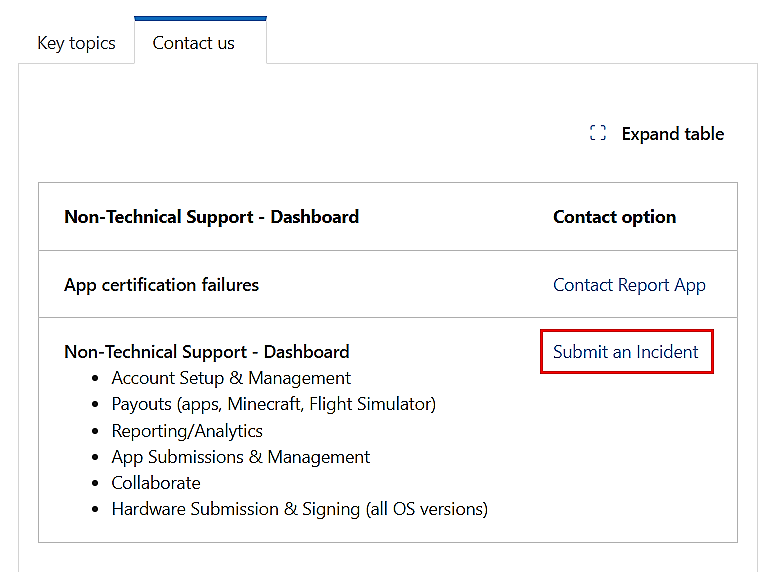
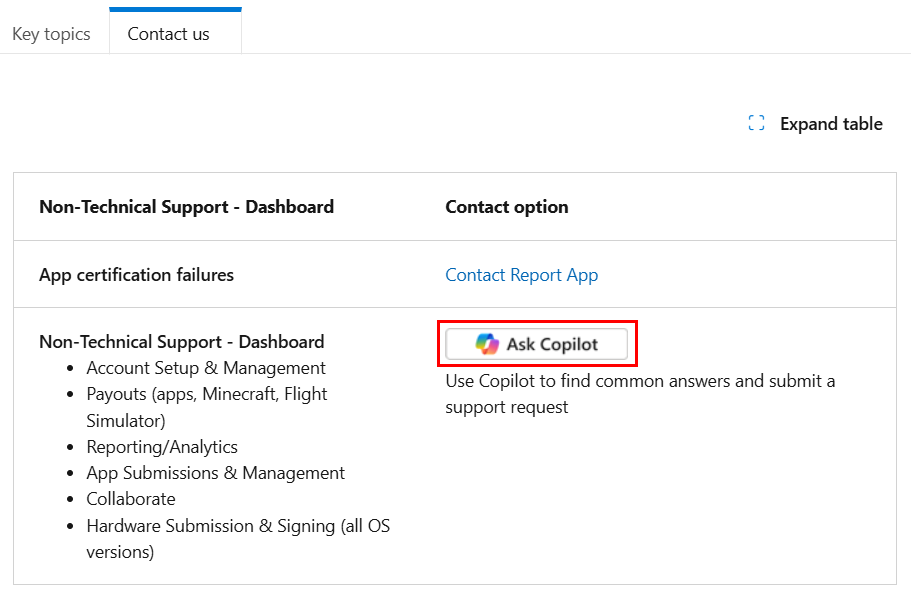
Reverted change in screen shot.

diff --git a/windows-driver-docs-pr/dashboard/technical-support.md b/windows-driver-docs-pr/dashboard/technical-support.md
@@ -2,7 +2,7 @@
 title: Get support for Partner Center dashboard or HLK issues
 description: There are two types of support issues in Windows developer support, dashboard issues, and HLK issues.
 ms.custom: "se-defect-target"
-ms.date: 12/10/2024
+ms.date: 10/09/2025
 ms.topic: how-to
 ---
 
@@ -13,15 +13,13 @@ There are two types of support issues in Windows developer support, dashboard is
 ## Support for dashboard
 
 1. Go to [Windows developer support](https://developer.microsoft.com/windows/support/?tabs=Contact-us).
-1. In the Non-Technical Support-Dashboard section, select **Submit an incident**.
+1. In the *Non-Technical Support-Dashboard* section, select **Ask Copilot**.
 
     :::image type="content" source="images/hardware-submission-support/dashboard-submit-incident.png" alt-text="Screenshot showing the Ask Copilot link for dashboard support.":::
 
 1. Sign in with your Partner Center account.
-1. Fill in all the required information.
-1. Select **Save**.
-1. Select **Partner Center** from the **Select the product** family dropbox.
-1. Proceed with filling out the details of your support request.
+1. Copy and paste the validation code into the Copilot chat field, as instructed.
+1. Ask Copilot your question. If Copilot can't answer your question, it will provide a link to open a support ticket.
 
 ## Support for HLK
 
